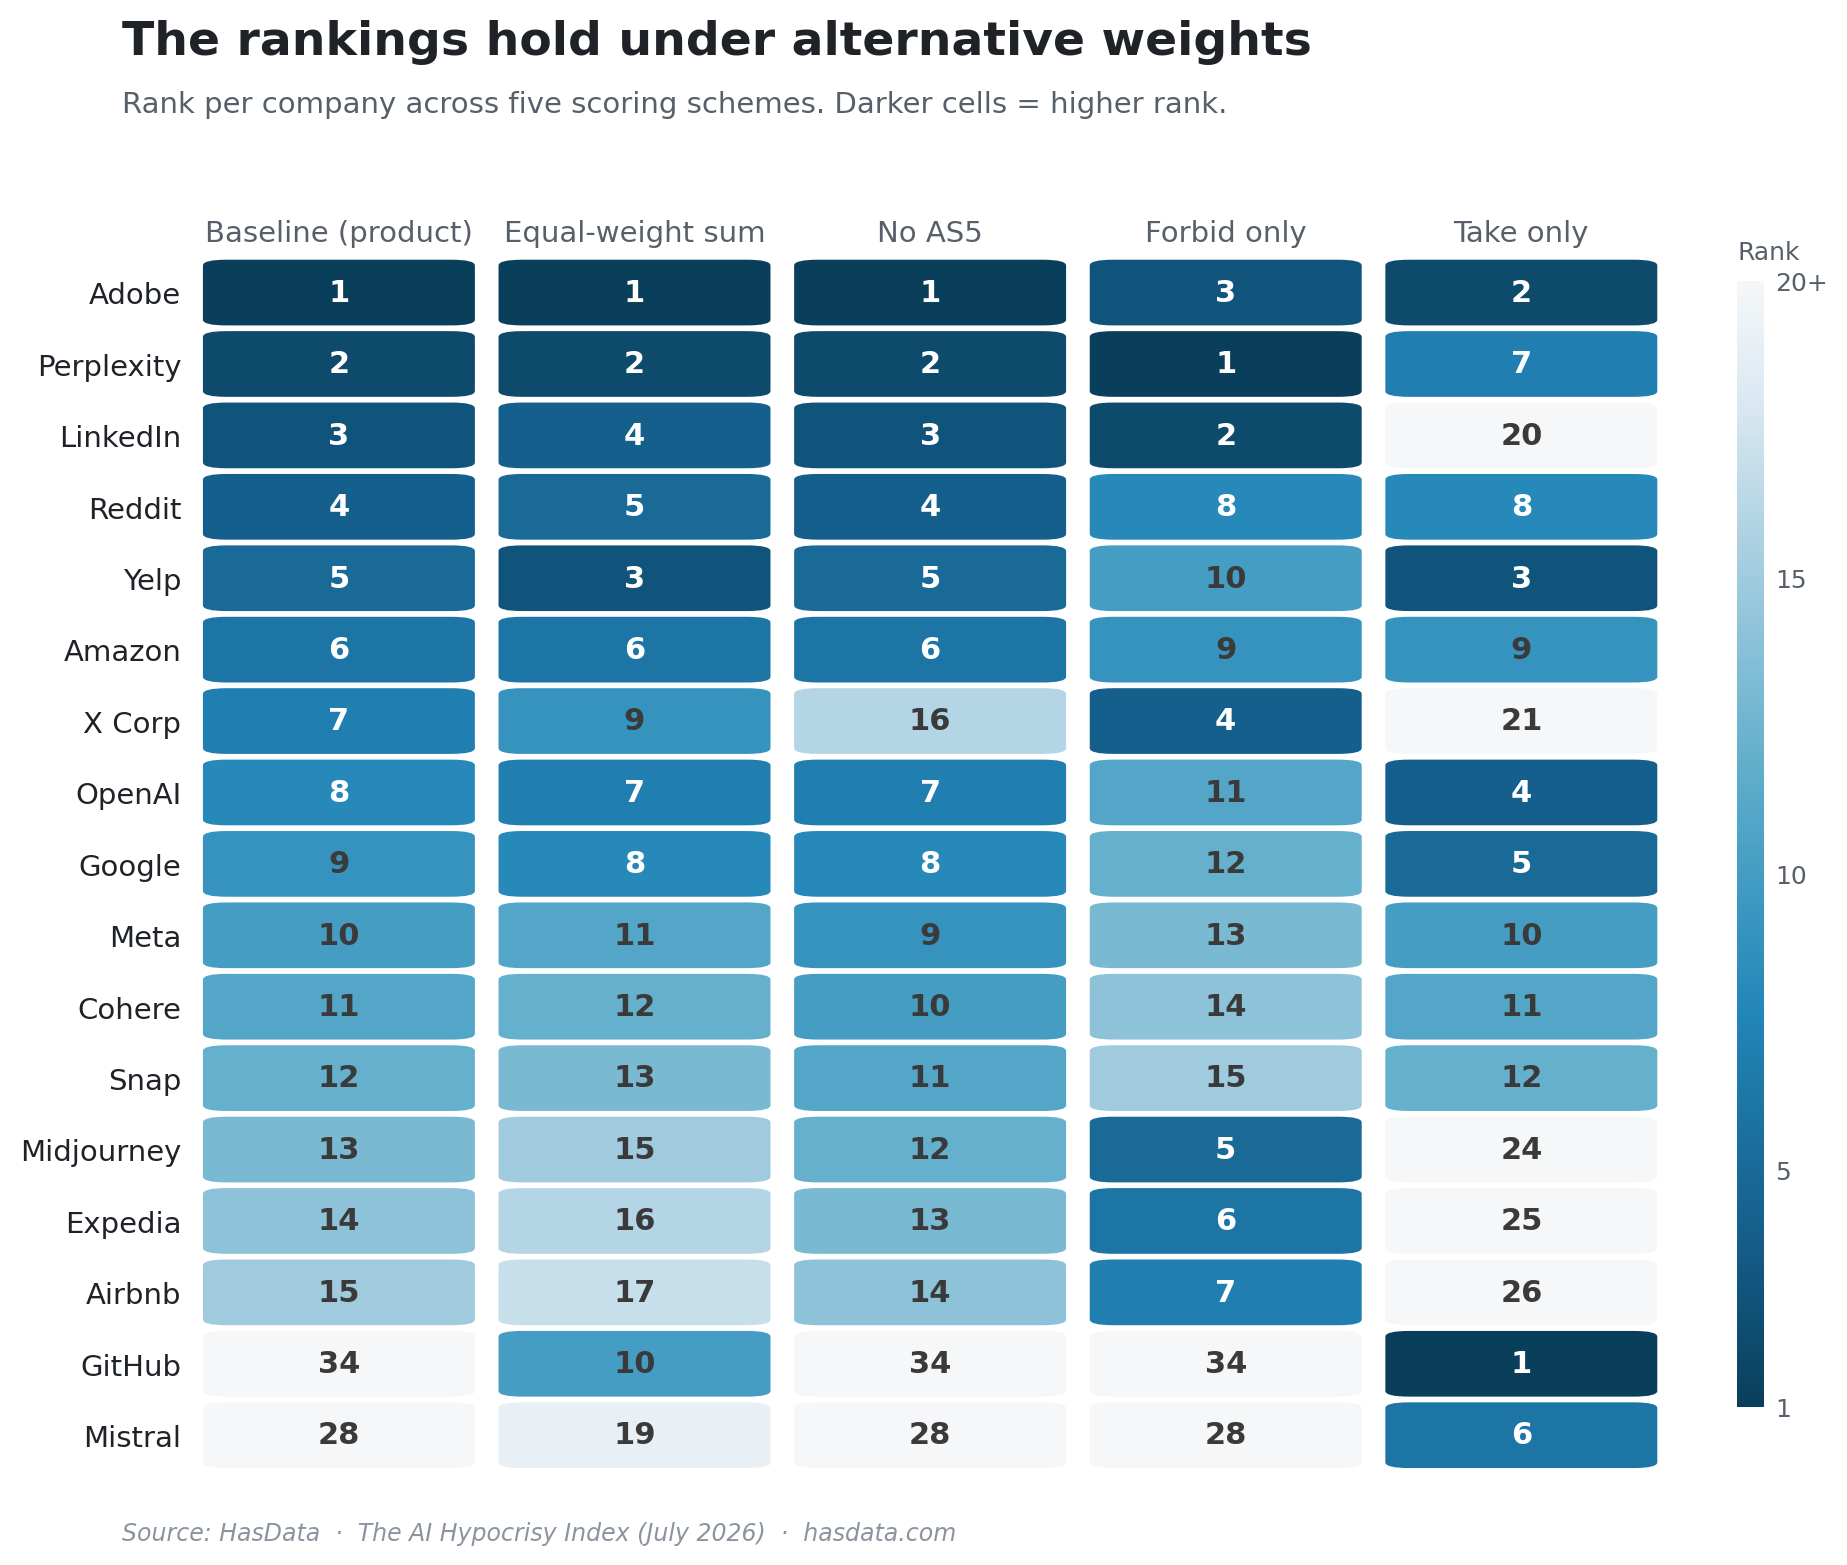
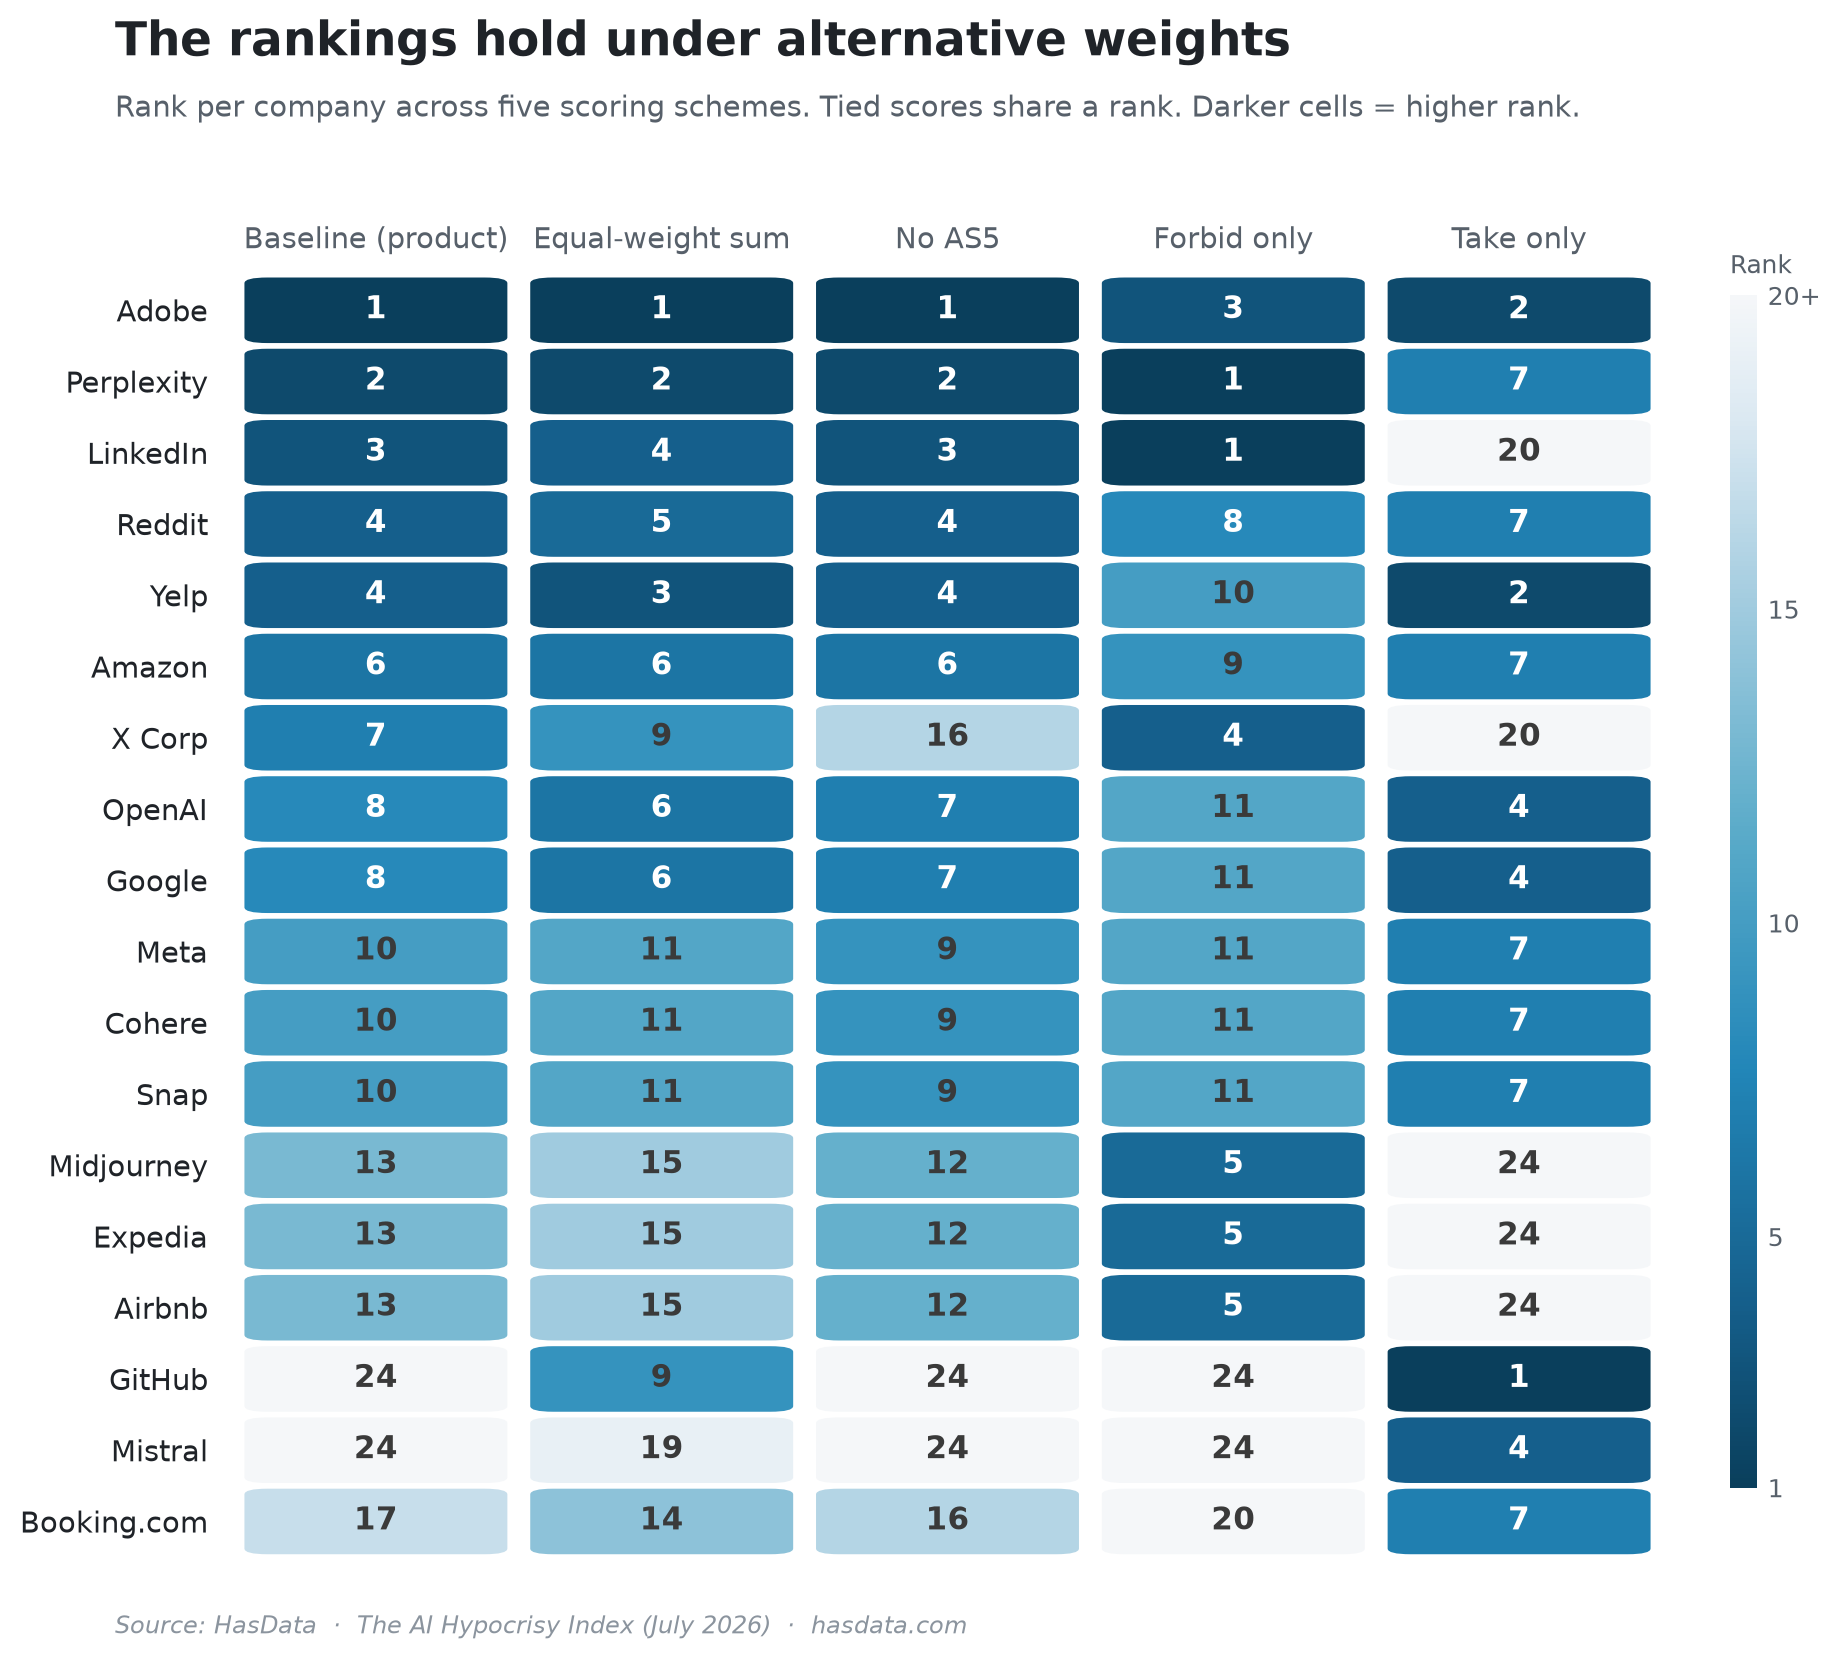
Rank tied scores by the min rule in test C and the ranking charts
Tied scores now share the best place (pandas rank(method="min")) instead of following the file order. test_c_alt_weights.py, its results, the leaderboard and the alt-weights heatmap use the rule, the same as the article since Nov 4.

The leaderboard shows the top ten places, 12 companies with Meta, Cohere and Snap tied at 1.5. GitHub's baseline rank is a shared 24th (was 34th). The companies that stay in the top 5 and top 10 under every scheme are the same as before. The data files are unchanged.

diff --git a/method/test_c_alt_weights.py b/method/test_c_alt_weights.py
@@ -62,10 +62,12 @@ def main():
         r["alt_take_only"] = r["take_score"]
 
     # Baseline rank
-    baseline = {r["company"]: i + 1 for i, r in enumerate(sorted(rows, key=lambda r: -r["hypocrisy_index"]))}
-
     def rank_map(key):
-        return {r["company"]: i + 1 for i, r in enumerate(sorted(rows, key=lambda r: -r[key]))}
+        # min rule (pandas rank(method="min")): tied scores share the best place
+        vals = [round(r[key], 6) for r in rows]
+        return {r["company"]: 1 + sum(v > round(r[key], 6) for v in vals) for r in rows}
+
+    baseline = rank_map("hypocrisy_index")
 
     ranks_by_scheme = {
         "baseline (product)": baseline,
@@ -87,18 +89,20 @@ def main():
         ("take-only", "alt_take_only"),
     ]
     for label, key in schemes:
-        top = sorted(rows, key=lambda r: -r[key])[:10]
+        rk = ranks_by_scheme[label]
+        top = [r for r in sorted(rows, key=lambda r: -r[key]) if rk[r["company"]] <= 10]
         print(f"\n### {label}")
-        for i, r in enumerate(top, 1):
+        for r in top:
+            i = rk[r["company"]]
             b = baseline[r["company"]]
             delta = b - i
             arrow = f"(+{delta})" if delta > 0 else (f"({delta})" if delta < 0 else "")
             print(f"  {i:2}. {r['company']:20}  score={r[key]:.2f}  vs baseline #{b:2}  {arrow}")
 
     # Cross-scheme robustness: who's in top-5 across all schemes?
-    top5_by_scheme = {label: [r["company"] for r in sorted(rows, key=lambda x: -x[key])[:5]] for label, key in schemes}
+    top5_by_scheme = {label: [c for c, v in ranks_by_scheme[label].items() if v <= 5] for label, key in schemes}
     all_top5 = set.intersection(*[set(v) for v in top5_by_scheme.values()])
-    top10_by_scheme = {label: [r["company"] for r in sorted(rows, key=lambda x: -x[key])[:10]] for label, key in schemes}
+    top10_by_scheme = {label: [c for c, v in ranks_by_scheme[label].items() if v <= 10] for label, key in schemes}
     all_top10 = set.intersection(*[set(v) for v in top10_by_scheme.values()])
 
     print("\n" + "=" * 100)
@@ -110,7 +114,7 @@ def main():
     result = {
         "n_companies": len(rows),
         "schemes": [label for label, _ in schemes],
-        "top10_by_scheme": {label: [{"rank": i + 1, "company": r["company"], "score": round(r[key], 3), "baseline_rank": baseline[r["company"]]} for i, r in enumerate(sorted(rows, key=lambda x: -x[key])[:10])] for label, key in schemes},
+        "top10_by_scheme": {label: [{"rank": ranks_by_scheme[label][r["company"]], "company": r["company"], "score": round(r[key], 3), "baseline_rank": baseline[r["company"]]} for r in sorted(rows, key=lambda x: -x[key]) if ranks_by_scheme[label][r["company"]] <= 10] for label, key in schemes},
         "robust_top5_all_schemes": sorted(all_top5),
         "robust_top10_all_schemes": sorted(all_top10),
     }

diff --git a/README.md b/README.md
@@ -24,7 +24,7 @@ Data behind [The AI Hypocrisy Index](https://hasdata.com/blog/ai-hypocrisy-index
 
 Adobe tops the Index at 4.4, with a forbid score of 5.5 and a take score of 8. Perplexity follows at 3.9 and LinkedIn at 2.6. None of them disallows a single AI training crawler in its own `robots.txt`.
 
-![Bar chart showing the ten highest-scoring companies on the AI Hypocrisy Index, from Adobe at 4.4 down to Meta at 1.5](charts/leaderboard.png)
+![Bar chart showing the companies in the top ten places on the AI Hypocrisy Index, from Adobe at 4.4 down to Meta, Cohere and Snap tied at 1.5](charts/leaderboard.png)
 
 The content platforms hold the upper right of the forbid-against-take plane. Adobe, Perplexity, Reddit and Yelp restrict access hard in their Terms and claim broad rights over what users post.
 
@@ -52,7 +52,7 @@ The anti-scraping wording repeats across companies. The largest cluster of near-
 
 The ranking survives re-weighting. Adobe stays in the top 5 under all five weighting schemes, and Adobe, Amazon, Perplexity, Reddit and Yelp stay in the top 10 under all of them.
 
-![Heatmap showing rank per company across five weighting schemes for the top-15 companies plus outliers GitHub and Mistral. Adobe holds top-5 across every scheme, GitHub jumps from rank 34 to rank 1 under take-only weighting](charts/chart-alt-weights-heatmap.png)
+![Heatmap showing rank per company across five weighting schemes for the top-15 companies plus GitHub, Mistral and Booking.com. Adobe holds top-5 across every scheme, GitHub climbs from a shared 24th to 1st under take-only weighting](charts/chart-alt-weights-heatmap.png)
 
 The [article](https://hasdata.com/blog/ai-hypocrisy-index?utm_source=github&utm_medium=syndication&utm_campaign=ai-hypocrisy-index&utm_content=ai-hypocrisy-index-readme) quotes the clauses behind these numbers and covers the court cases around them, and every number above traces to a row in the files below.
 
@@ -134,7 +134,7 @@ The damages table holds `version_date`, `amount`, `currency`, `per` and the clau
 
 The `method/` folder holds three scripts that recompute the study's checks from the CSV files. They need only the Python standard library and write their output to `method/results/`.
 
-The first script, `test_a_robots_vs_terms.py`, splits the 35 companies into paper-only forbidders, silent enforcers, aligned strict and aligned lax. The second, `test_b_clause_similarity.py`, groups the anti-scraping quotes by wording and finds the shared templates. The third, `test_c_alt_weights.py`, ranks the companies under five weighting schemes (the baseline product, an equal-weight sum, the baseline without liquidated damages, forbid only and take only).
+The first script, `test_a_robots_vs_terms.py`, splits the 35 companies into paper-only forbidders, silent enforcers, aligned strict and aligned lax. The second, `test_b_clause_similarity.py`, groups the anti-scraping quotes by wording and finds the shared templates. The third, `test_c_alt_weights.py`, ranks the companies under five weighting schemes (the baseline product, an equal-weight sum, the baseline without liquidated damages, forbid only and take only). Tied scores share the best place (the min rule), so a top ten can hold more than ten companies.
 
 ```bash
 python method/test_a_robots_vs_terms.py
